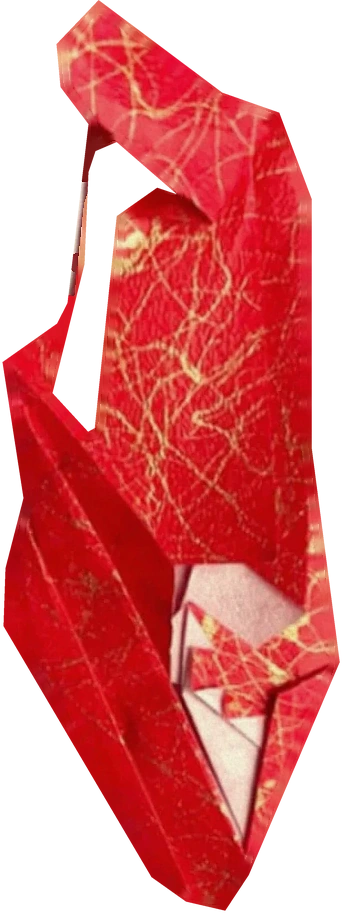
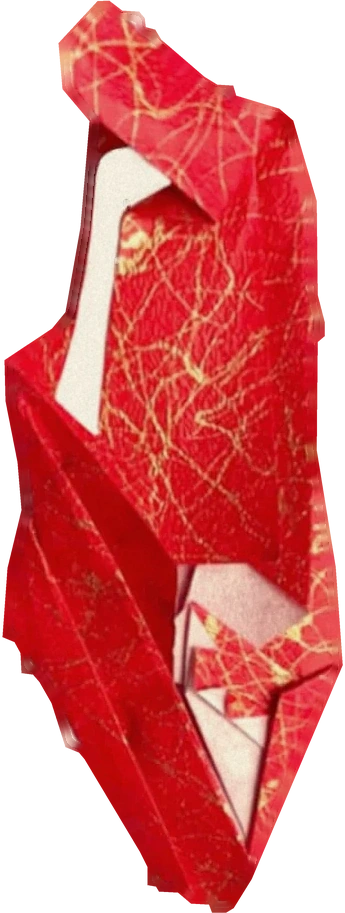
Re-cut fitted garments so croquis lines on the paper no longer bite into them
The old cut removed sketch lines running along the garment edges as if they were
background, carving notches the edge-straightening then turned into torn corners.
Garments are now cut from the fit drawings keeping lines that lie on the paper
(sealed over and repainted with the paper's colour), trimming loose lines outside,
then finished with the vector edge; positions recomputed from the registration.

Claude-Session: https://claude.ai/code/session_01KP2mAidLDQ2RQyfSicXDG6

diff --git a/js/pieces.js b/js/pieces.js
@@ -13,7 +13,7 @@ const PIECES = [
     piece: 'assets/pieces/01/piece.webp',          // the origami piece as folded
     // the fitted look, exactly as in the fit drawing: the garment first, then the accessories
     fit: [
-      { src: 'assets/pieces/01/dress.webp',    x: 6.9, y: 20.87, w: 70.65, h: 188.61 },
+      { src: 'assets/pieces/01/dress.webp',    x: 6.28, y: 20.88, w: 71.27, h: 188.61 },
       { src: 'assets/pieces/01/hair.webp',     x: 32.93, y: -3.5, w: 29.34, h: 22.93 },
       { src: 'assets/pieces/01/bracelet.webp', x: 86.03, y: 112.6, w: 7.44, h: 20.25 },
       { src: 'assets/pieces/01/shoes.webp',    x: 40.37, y: 257.0, w: 19.22, h: 83.26 },
@@ -23,7 +23,7 @@ const PIECES = [
     id: '02',
     piece: 'assets/pieces/02/piece.webp',
     fit: [
-      { src: 'assets/pieces/02/dress.webp',    x: -56.35, y: 44.58, w: 140.27, h: 248.01 },
+      { src: 'assets/pieces/02/dress.webp',    x: -57.16, y: 44.79, w: 141.89, h: 247.81 },
       { src: 'assets/pieces/02/hair.webp',     x: 36.14, y: -2.58, w: 26.63, h: 35.37 },
       { src: 'assets/pieces/02/shoes.webp',    x: 43.26, y: 280.8, w: 13.82, h: 57.53 },
     ],
@@ -32,7 +32,7 @@ const PIECES = [
     id: '03',
     piece: 'assets/pieces/03/piece.webp',
     fit: [
-      { src: 'assets/pieces/03/dress.webp',    x: -6.37, y: 47.47, w: 94.33, h: 241.29 },
+      { src: 'assets/pieces/03/dress.webp',    x: -5.76, y: 47.88, w: 92.92, h: 240.48 },
       { src: 'assets/pieces/03/hair.webp',     x: 35.74, y: -0.51, w: 28.75, h: 32.39 },
       { src: 'assets/pieces/03/shoes.webp',    x: 38.17, y: 288.16, w: 23.89, h: 53.65 },
     ],
